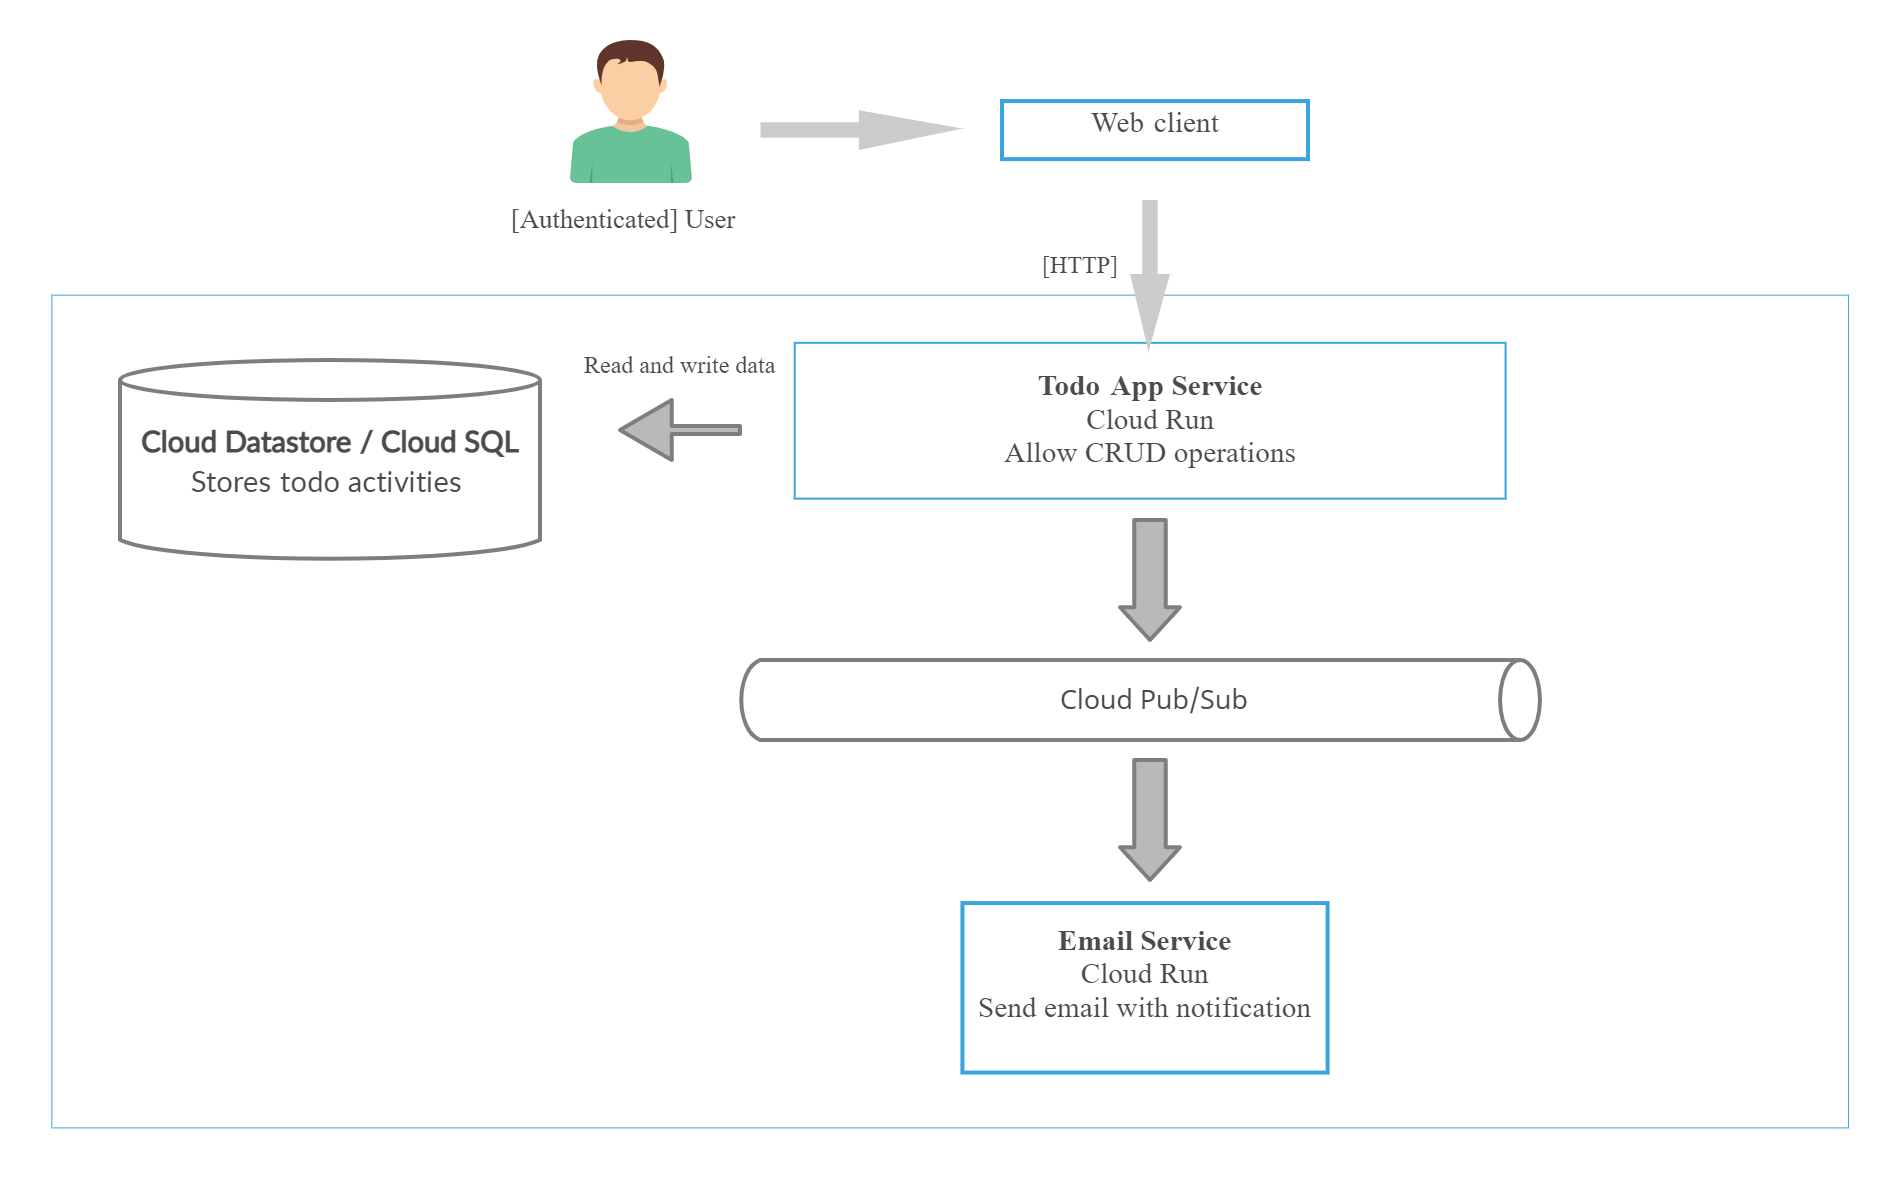
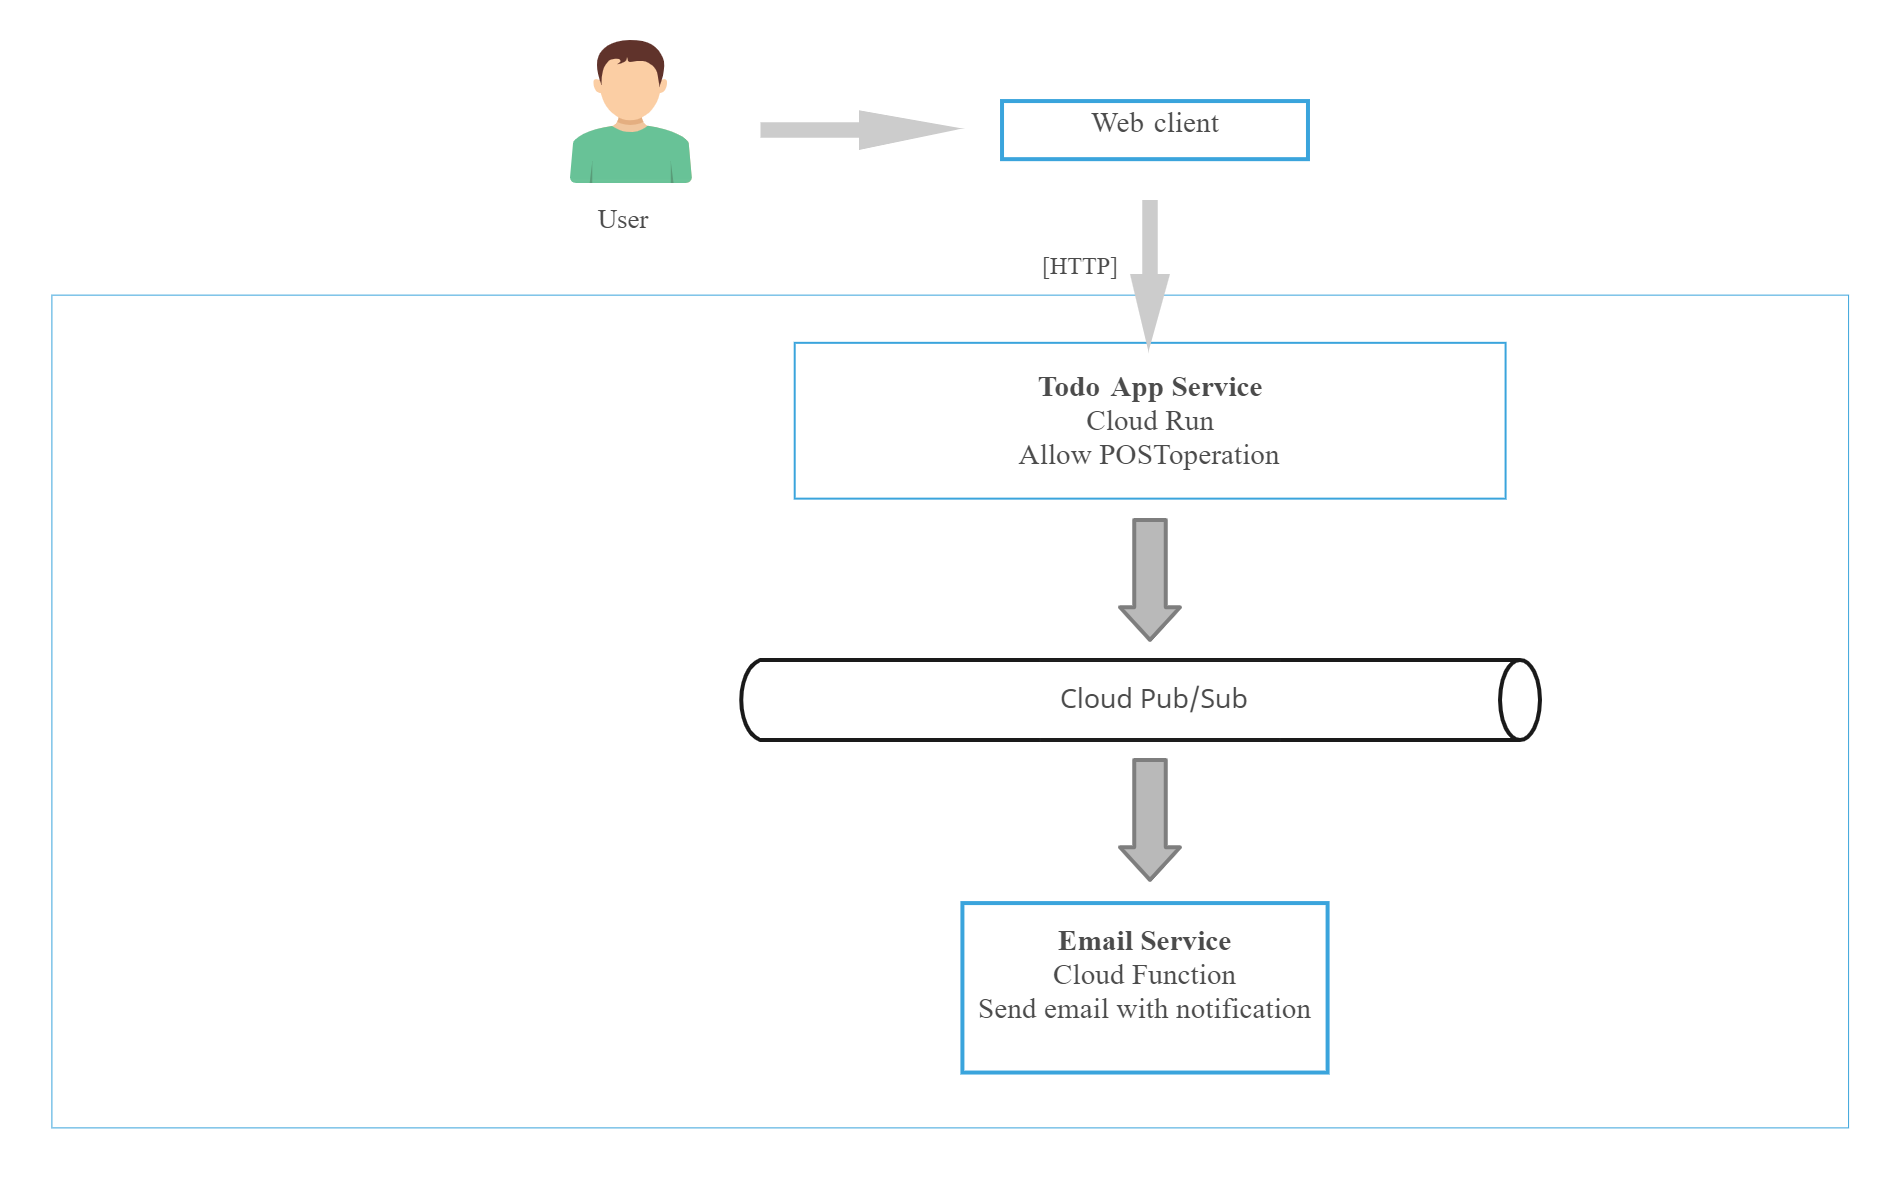
Documentation update

diff --git a/README.md b/README.md
@@ -1,7 +1,7 @@
 # Serverless todo list
 
-W ramach projektu planowane jest stworzenie architektury serverless dla aplikacji służącej do planowania rzeczy do zrobienia. Funkcjonalności aplikacji będą udostępnione za pomocą Cloud Run. Dane będą przechowywane w Cloud Datastore, lub w przypadku zaimplementowania mechanizmu autoryzacji w Cloud SQL. Po dodaniu nowego obiektu użytkownik będzie otrzymywał e-mail z informacją o zaplanowanej aktywności. 
+W ramach projektu stworzono aplikację umożliwiającą wysyłanie na maila notyfikacji. API aplikacji jest udostępnione z wykorzystaniem Cloud Run. Po przesłaniu obiektu użytkownik otrzymuje e-mail z informacją w formie notyfikacji. 
 
-W dalszej części można stworzyć Cloud Scheduler, który na oddzielny topic wysyłałby event służący do wysyłania przypomnień. Przypomnienia byłyby osobną opcją zaznaczaną przez użytkowników. Serwis do przypomnień wysyłałby powiadomienia dzień wcześniej o określonej porze. Mechanizm wysyłania powiadomień opierałby się na usłudze Cloud Scheduler.
+Przy tworzeniu infrastruktury za pomocą Terraform'a jest tworzone Source Repo oraz Cloud Build. Umożliwia to pełną automatyzację postawienia aplikacji.
 
 ![alt text](https://github.com/mateuszbarnacki/gcp-proj/blob/main/ServerlessTodo.png)
